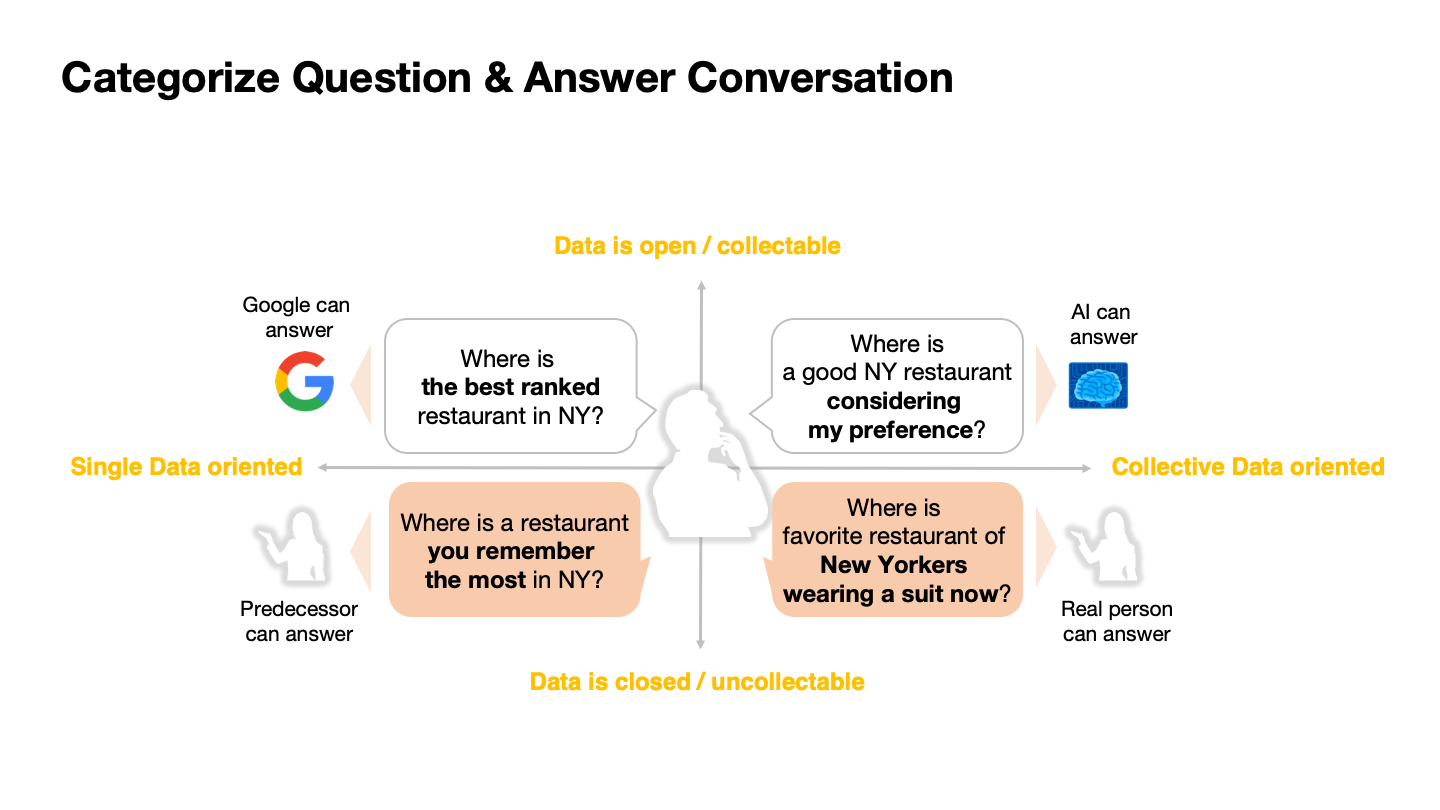
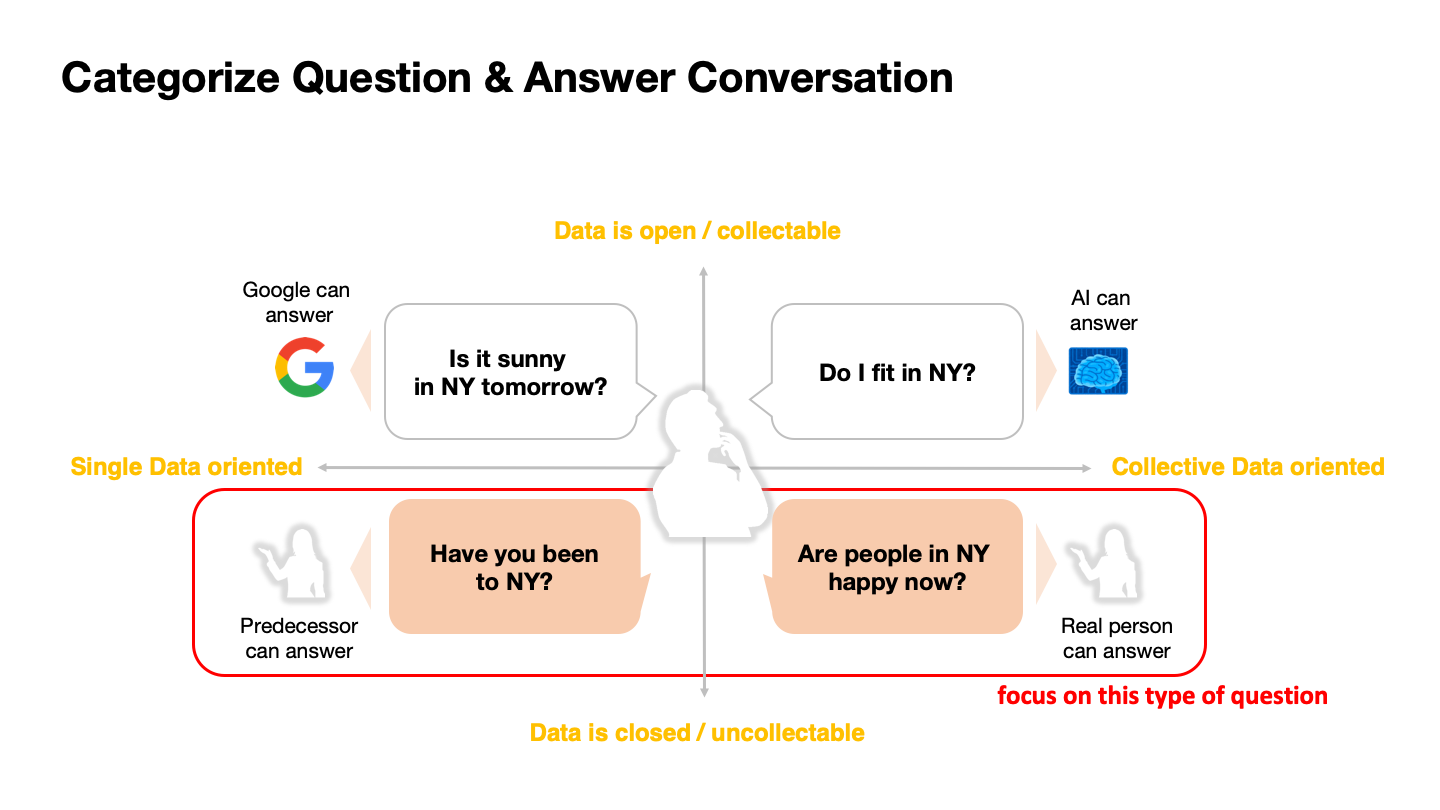
no message

diff --git a/work/2018_collective/index.html b/work/2018_collective/index.html
@@ -198,11 +198,12 @@ if (!doNotTrack) {
 
 <h3 id="overview">Overview</h3>
 
-<h2 id="convert-people-s-responses-to-questions-into-collective-drinks">Convert people&rsquo;s responses to questions into collective drinks</h2>
+<h2 id="convert-people-s-emotions-into-collective-mood-of-the-group-community">Convert people&rsquo;s emotions into collective mood of the group/community</h2>
 
+<p>Collective Juice is a physical product that collects different user&rsquo;s emotions and tone together to reveal and visualizes the “mood” of the group/community.
 <div class="youtube">
 <iframe src="https://player.vimeo.com/video/294814672" width="640" height="360" frameborder="0" webkitallowfullscreen mozallowfullscreen allowfullscreen></iframe>
-</div>
+</div></p>
 
 <div class="single-overview-grid">
     <div class="overview1-container">
@@ -220,11 +221,9 @@ if (!doNotTrack) {
 
 <h3 id="objective">Objective</h3>
 
-<h2 id="how-might-we-collect-responses-to-questions-that-can-only-be-answered-by-humans-efficiently">How might we collect responses to questions that can only be answered by humans efficiently?</h2>
+<h2 id="how-might-we-collect-responses-to-questions-that-can-only-be-answered-by-humans">How might we collect responses to questions that can only be answered by humans?</h2>
 
-<p>Everyday we are googling many questions and we can get answer immediately. Also, recently AI can answer more and more sophisticated questions. However, I think still there are things that can only be answered by people such as fuzzy, real-time and people-oriented questions. These human-to-human conversations are very valuable, but it takes time and is difficult to collect proper answers. I would like to focus on these types of questions and collect answers efficiently.</p>
-
-<p>From this start point, I came up with the following creative question: How might we collect responces to questions that can only be answered by humans efficiently?</p>
+<p>As the development of technology, we can find many answers online within just a second. Have we ever wondered how the other people think about the same question? Have we ever wondered what it looks like after collecting different opinions together?</p>
 
 <p>
 <figure class="img-ingrid">
@@ -278,9 +277,35 @@ if (!doNotTrack) {
     </div>
 </div>
 
+<h2 id="design-decision">Design Decision</h2>
+
+<ul>
+<li>What kind of question is appropriate?
+
+<ul>
+<li>Use an open question to confirm the difference between a collective opinion and a subjective opinion and to ask a more social question.</li>
+</ul></li>
+<li>How to answer the question?
+
+<ul>
+<li>Decide to use easy yes/no question to create a first running mockup quickly. Types of quesitions and responding formats can be changed later.</li>
+</ul></li>
+<li>How to visualize answers?
+
+<ul>
+<li>More intuitive way is appropriate such as color or size. Decided to explore a tangible format because data visualization on the screen is being implemented in many cases.</li>
+<li>Sought a different perspective by outputting data that is usually visualized visually to different sensory such as taste.</li>
+</ul></li>
+<li>Is there a business impact?
+
+<ul>
+<li>Realize the experience of tasting a mood of the day and expect commercialization as a drink of the &ldquo;mood&rdquo;.</li>
+</ul></li>
+</ul>
+
 <h3 id="concept">Concept</h3>
 
-<h2 id="convert-responses-to-questions-into-collective-drink-which-visualizes-the-mood-of-the-group-community">Convert responses to questions into collective drink which visualizes the &ldquo;mood&rdquo; of the group/community</h2>
+<h2 id="convert-people-s-emotions-into-collective-mood-of-the-group-community-1">Convert people&rsquo;s emotions into collective mood of the group/community</h2>
 
 
 <figure class="img-ingrid">
